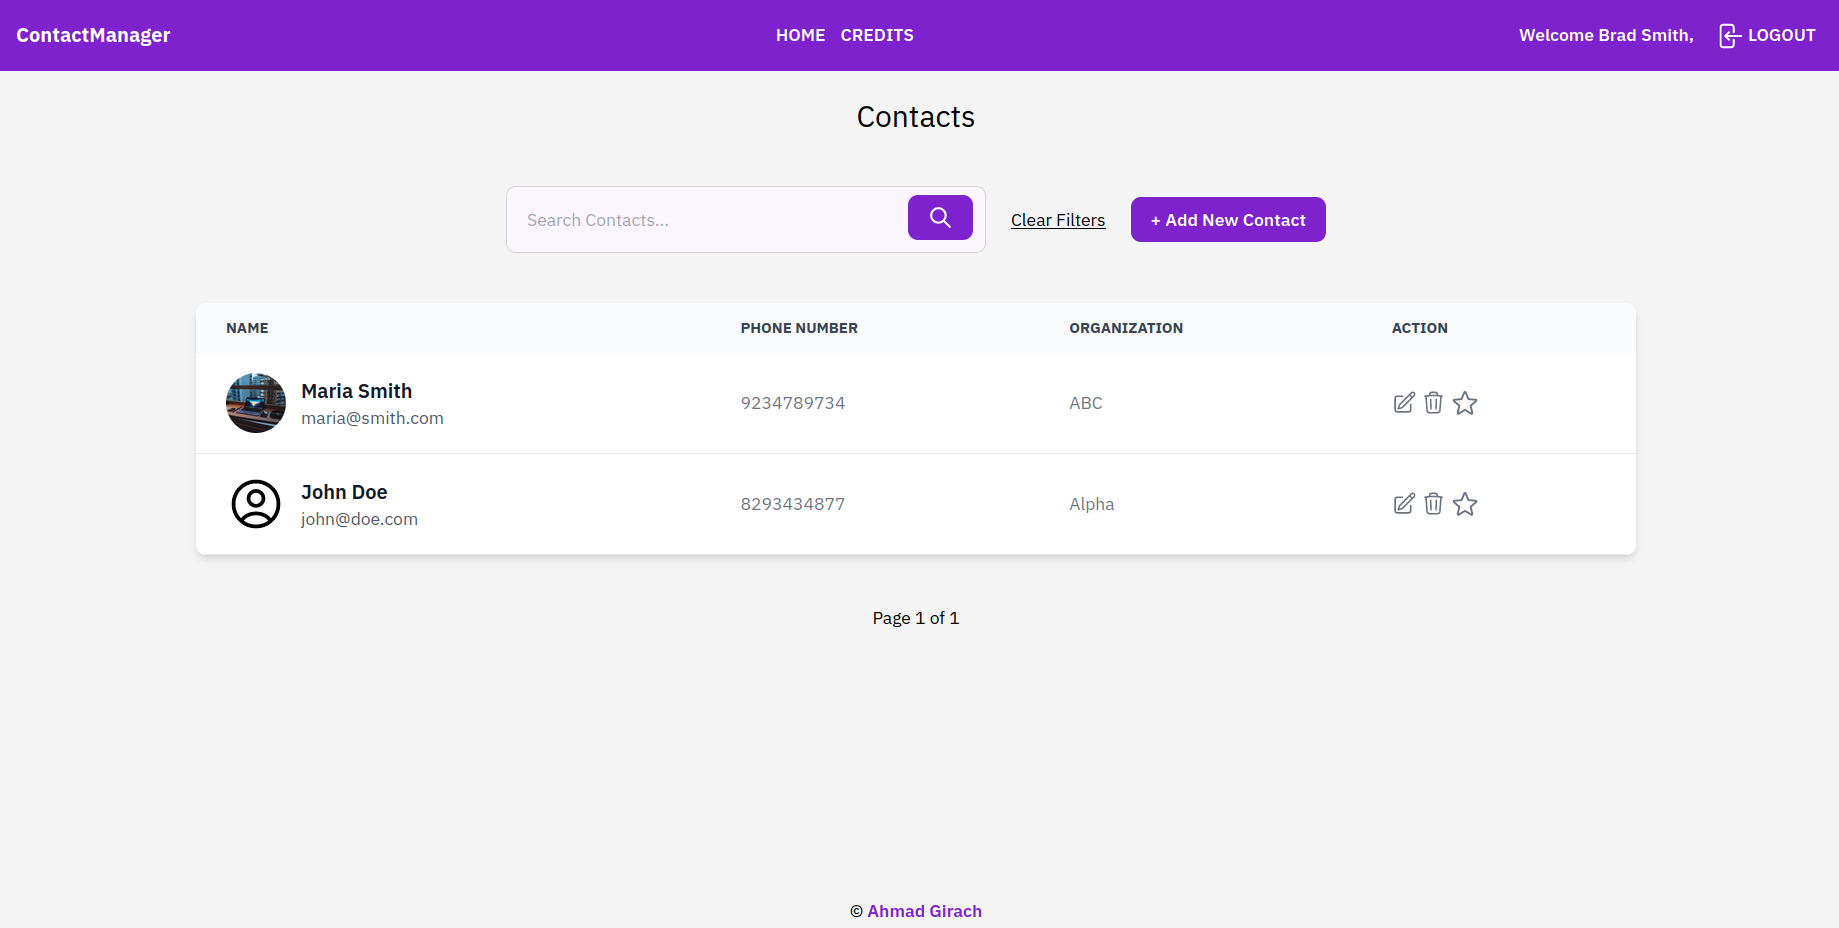
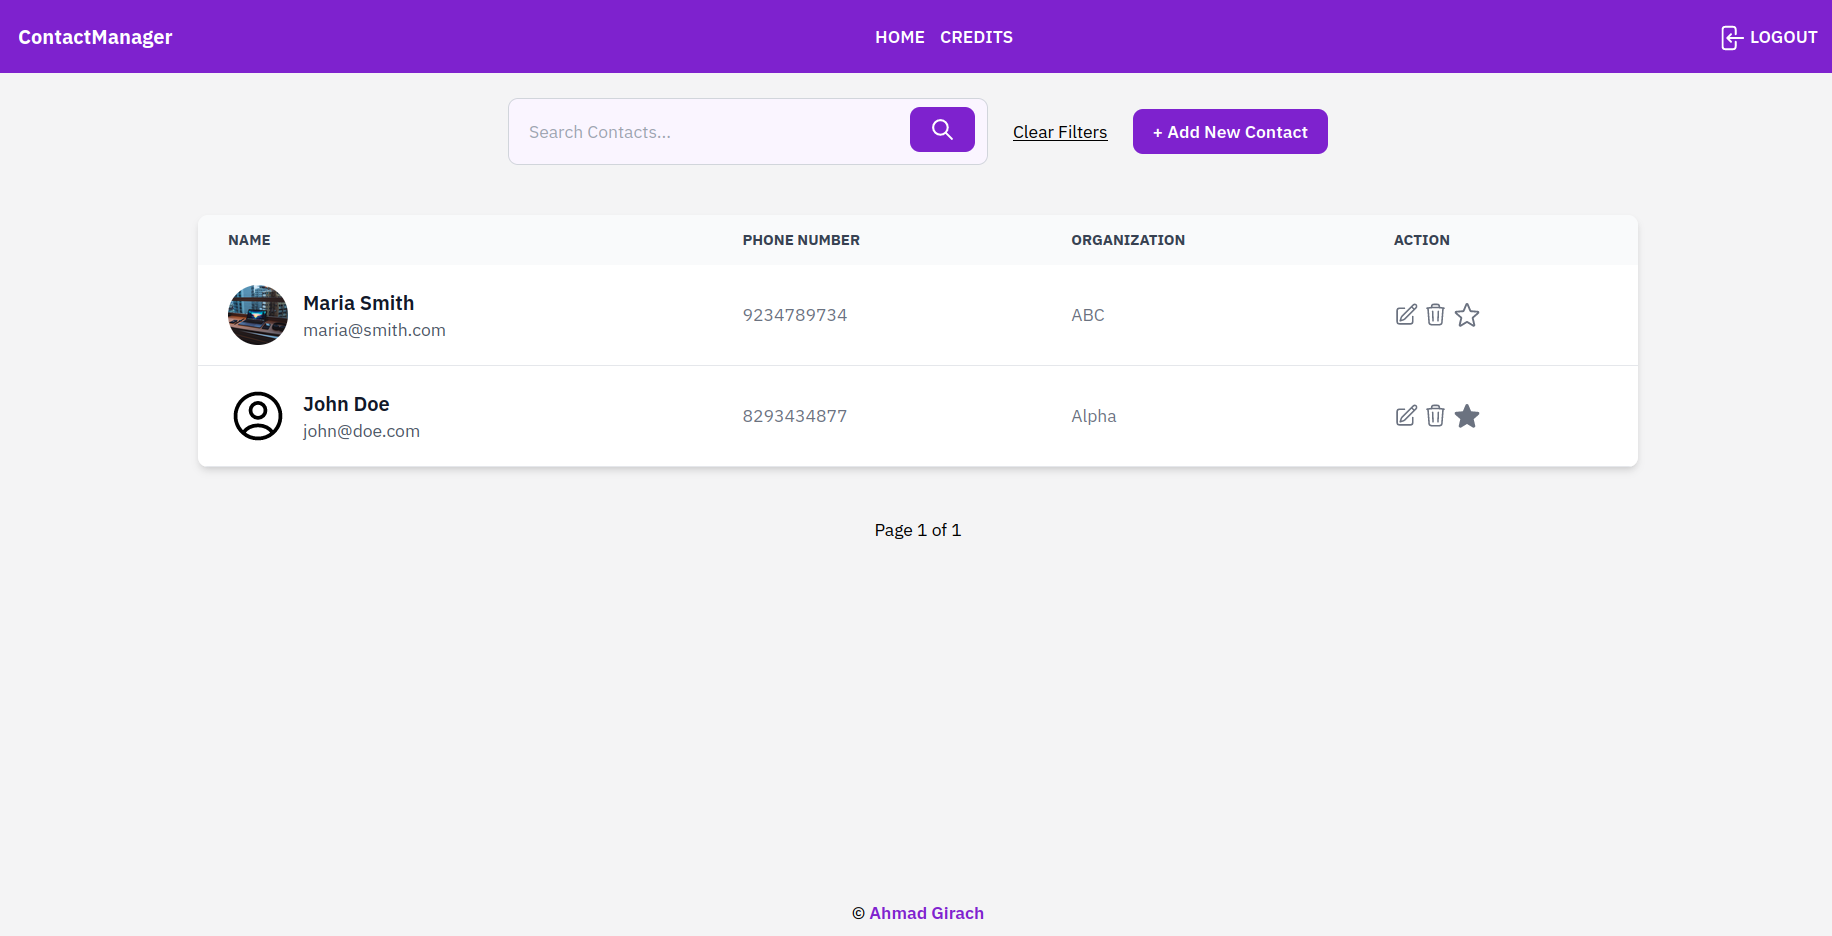
[IMP] removed logged in user name from navbar and other imp

diff --git a/templates/navbar.html b/templates/navbar.html
@@ -16,7 +16,7 @@
                 Sign In
             </a>
             {% else %}
-            <span class="text-sm font-semibold">Welcome {{ user.get_full_name }},</span>
+            <!-- <span class="text-sm font-semibold">Welcome {{ user.get_full_name }},</span> -->
             <a href="{% url 'logout' %}" class="uppercase font-semibold text-sm">
                 <svg xmlns="http://www.w3.org/2000/svg" fill="none" viewBox="0 0 24 24" stroke-width="1.5"
                     stroke="currentColor" class="w-6 h-6 inline-block">

diff --git a/templates/footer.html b/templates/footer.html
@@ -1,7 +1,7 @@
 <footer class="p-3 text-sm">
     <p>
         &copy;
-        <a href="https://bio.link/ahmadgirach" target="_blank" rel="noopener noreferrer"
+        <a href="https://github/ahmadgirach/dj-contact-manager" target="_blank" rel="noopener noreferrer"
             class="text-purple-700 font-semibold">
             Ahmad Girach
         </a>

diff --git a/templates/home.html b/templates/home.html
@@ -6,7 +6,7 @@
 
 {% block content %}
 <div class="space-y-10">
-    <h3 class="text-2xl text-center">Contacts</h3>
+    <!-- <h3 class="text-2xl text-center">Contacts</h3> -->
 
     <form action="{% url 'home' %}" method="get">
         <div class="flex justify-center items-center gap-5">

diff --git a/templates/credits.html b/templates/credits.html
@@ -5,7 +5,7 @@
 {% block content %}
 
 <div class="mx-auto text-center">
-    <h3 class="text-2xl mb-10">This project uses following stuff.</h3>
+    <h3 class="text-2xl mb-10">This project uses following stuff:</h3>
     <ul>
         {% for link in links %}
         <li class="text-sm">

diff --git a/accounts/models.py b/accounts/models.py
@@ -27,8 +27,8 @@ class CustomUserManager(BaseUserManager):
 
 class CustomUser(AbstractUser):
     """
-    By default, ``username`` field is required and unique; but we want to use
-    email as login field. Thus, need to mark this field as optional, otherwise
+    By default, ``username`` field is unique; but we want to use
+    email as login field. Thus, need to mark this field as non-unique, otherwise
     it'll raise integrity constraint errors.
     """
 
